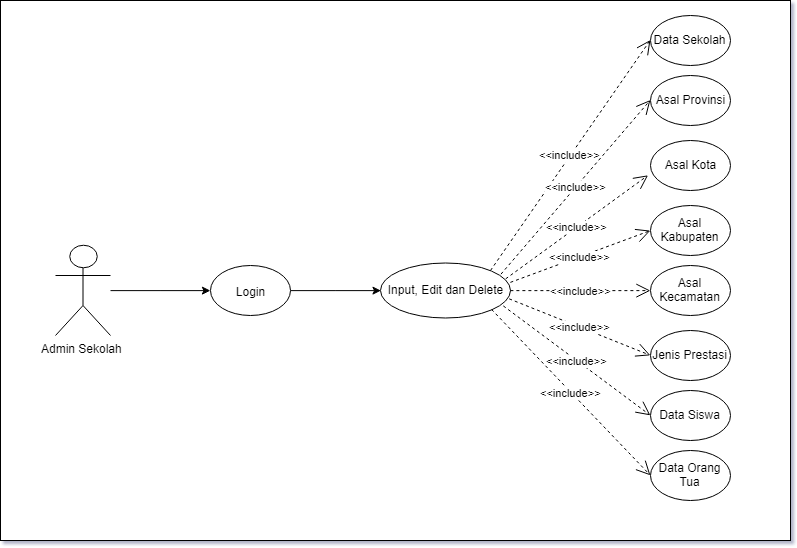
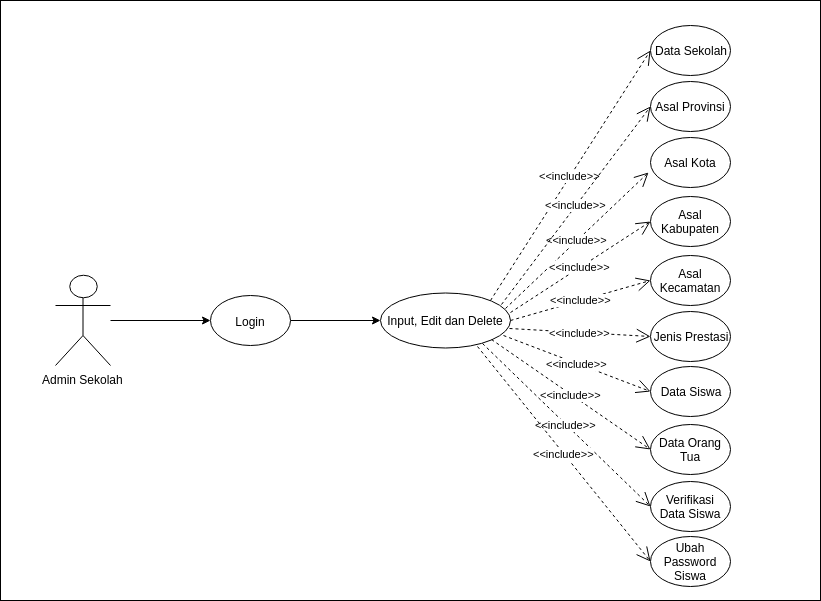
update dokumentasi

diff --git a/document/aplikasi/psb-umum/desain-dan-perancangan.md b/document/aplikasi/psb-umum/desain-dan-perancangan.md
@@ -218,6 +218,14 @@ Permodelan rancangan sistem yang dgunakan adalah UML (Unified Modeling Language)
 
 [![Admin Input Data Orang Tua](/document/aplikasi/psb-umum/images/desain-dan-perancangan/psb-umum_activity-diagram-admin-input-data-orang-tua.png)](/document/aplikasi/psb-umum/images/desain-dan-perancangan/psb-umum_activity-diagram-admin-input-data-orang-tua.png)
 
+###### 3.6.2.2.10 Admin Verifikasi Data Siswa
+
+[![Admin Verifikasi Data Siswa](/document/aplikasi/psb-umum/images/desain-dan-perancangan/psb-umum_activity-diagram-admin-verifikasi-data-siswa.png)](/document/aplikasi/psb-umum/images/desain-dan-perancangan/psb-umum_activity-diagram-admin-verifikasi-data-siswa.png)
+
+###### 3.6.2.2.11 Admin Ubah Password Siswa
+
+[![Admin Ubah Password Siswa](/document/aplikasi/psb-umum/images/desain-dan-perancangan/psb-umum_activity-diagram-admin-ubah-password-siswa.png)](/document/aplikasi/psb-umum/images/desain-dan-perancangan/psb-umum_activity-diagram-admin-ubah-password-siswa.png)
+
 
 ##### 3.6.2.3 Sequence Diagram Admin
 
@@ -261,6 +269,14 @@ Permodelan rancangan sistem yang dgunakan adalah UML (Unified Modeling Language)
 
 [![Admin Input Data Orang Tua](/document/aplikasi/psb-umum/images/desain-dan-perancangan/psb-umum_state-chart-diagram-admin-input-data-orang-tua.png)](/document/aplikasi/psb-umum/images/desain-dan-perancangan/psb-umum_state-chart-diagram-admin-input-data-orang-tua.png)
 
+###### 3.6.2.4.10 Admin Verifikasi Data Siswa
+
+[![Admin Verifikasi Data Siswa](/document/aplikasi/psb-umum/images/desain-dan-perancangan/psb-umum_state-chart-diagram-admin-verifikasi-data-siswa.png)](/document/aplikasi/psb-umum/images/desain-dan-perancangan/psb-umum_state-chart-diagram-admin-verifikasi-data-siswa.png)
+
+###### 3.6.2.4.11 Admin Ubah Password Siswa
+
+[![Admin Ubah Password Siswa](/document/aplikasi/psb-umum/images/desain-dan-perancangan/psb-umum_state-chart-diagram-admin-verifikasi-data-siswa.png)](/document/aplikasi/psb-umum/images/desain-dan-perancangan/psb-umum_state-chart-diagram-admin-verifikasi-data-siswa.png)
+
 #### 3.6.3 Siswa
 
 ##### 3.6.3.1 Use Case Diagram Siswa
@@ -277,16 +293,32 @@ Permodelan rancangan sistem yang dgunakan adalah UML (Unified Modeling Language)
 
 [![Siswa Login](/document/aplikasi/psb-umum/images/desain-dan-perancangan/psb-umum_activity-diagram-siswa-login.png)](/document/aplikasi/psb-umum/images/desain-dan-perancangan/psb-umum_activity-diagram-siswa-login.png)
 
-###### 3.6.3.2.3 Siswa Lihat Data Sekolah
+###### 3.6.3.2.3 Siswa Isi Form Identitas
+
+[![Siswa Siswa Isi Form Identitas](/document/aplikasi/psb-umum/images/desain-dan-perancangan/psb-umum_activity-diagram-siswa-isi-form-dentitas.png)](/document/aplikasi/psb-umum/images/desain-dan-perancangan/psb-umum_activity-diagram-siswa-isi-form-dentitas.png)
+
+###### 3.6.3.2.4 Siswa Lihat Data Sekolah
 
 [![Siswa View Data Sekolah](/document/aplikasi/psb-umum/images/desain-dan-perancangan/psb-umum_activity-diagram-siswa-view-sekolah.png)](/document/aplikasi/psb-umum/images/desain-dan-perancangan/psb-umum_activity-diagram-siswa-view-sekolah.png)
+
+###### 3.6.3.2.5 Siswa Memilih Sekolah Tujuan
+
+[![Siswa Memilih Sekolah Tujuan](/document/aplikasi/psb-umum/images/desain-dan-perancangan/psb-umum_activity-diagram-siswa-memilih-sekolah-tujuan.png)](/document/aplikasi/psb-umum/images/desain-dan-perancangan/psb-umum_activity-diagram-siswa-memilih-sekolah-tujuan.png)
+
+###### 3.6.3.2.6 Siswa Cetak Formulir Pendaftaran
+
+[![Siswa Cetak Formulir Pendaftaran](/document/aplikasi/psb-umum/images/desain-dan-perancangan/psb-umum_activity-diagram-siswa-cetak-formulir-pendaftaran.png)](/document/aplikasi/psb-umum/images/desain-dan-perancangan/psb-umum_activity-diagram-siswa-cetak-formulir-pendaftaran.png)
+
+###### 3.6.3.2.7 Siswa Pindah Sekolah
+
+[![Siswa Pindah Sekolah](/document/aplikasi/psb-umum/images/desain-dan-perancangan/psb-umum_activity-diagram-siswa-pindah-sekolah.png)](/document/aplikasi/psb-umum/images/desain-dan-perancangan/psb-umum_activity-diagram-siswa-pindah-sekolah.png)
 
 
 ##### 3.6.3.3 Sequence Diagram Siswa
 
-###### 3.6.3.3.1 Siswa Lihat Info Sekolah
+###### 3.6.3.3.1 Siswa Lihat Akun Siswa
 
-[![Siswa Lihat Sekolah](/document/aplikasi/psb-umum/images/desain-dan-perancangan/psb-umum_sequence-diagram-siswa-view-info.png)](/document/aplikasi/psb-umum/images/desain-dan-perancangan/psb-umum_sequence-diagram-siswa-view-info.png)
+[![Siswa Lihat Akun Siswa](/document/aplikasi/psb-umum/images/desain-dan-perancangan/psb-umum_sequence-diagram-siswa-view-info.png)](/document/aplikasi/psb-umum/images/desain-dan-perancangan/psb-umum_sequence-diagram-siswa-view-info.png)
 
 
 ##### 3.6.3.4 State Chart Diagram Siswa
@@ -299,24 +331,50 @@ Permodelan rancangan sistem yang dgunakan adalah UML (Unified Modeling Language)
 
 [![Siswa Login](/document/aplikasi/psb-umum/images/desain-dan-perancangan/psb-umum_state-chart-diagram-siswa-login.png)](/document/aplikasi/psb-umum/images/desain-dan-perancangan/psb-umum_state-chart-diagram-siswa-login.png)
 
-###### 3.6.3.4.3 Siswa Lihat Data Sekolah
+###### 3.6.3.4.2 Siswa Login
+
+[![Siswa Login](/document/aplikasi/psb-umum/images/desain-dan-perancangan/psb-umum_state-chart-diagram-siswa-login.png)](/document/aplikasi/psb-umum/images/desain-dan-perancangan/psb-umum_state-chart-diagram-siswa-login.png)
+
+###### 3.6.3.4.3 Siswa Isi Form Identitas
+
+[![Siswa Isi Form Identitas](/document/aplikasi/psb-umum/images/desain-dan-perancangan/psb-umum_state-chart-diagram-siswa-isi-form-identitas.png)](/document/aplikasi/psb-umum/images/desain-dan-perancangan/psb-umum_state-chart-diagram-siswa-isi-form-identitas.png)
+
+###### 3.6.3.4.4 Siswa Lihat Data Sekolah
 
 [![Siswa Lihat Data Sekolah](/document/aplikasi/psb-umum/images/desain-dan-perancangan/psb-umum_state-chart-diagram-siswa-view-sekolah.png)](/document/aplikasi/psb-umum/images/desain-dan-perancangan/psb-umum_state-chart-diagram-siswa-view-sekolah.png)
 
-##### 3.6.3.5 Flowchart Diagram Siswa
+###### 3.6.3.4.5 Siswa Memilih Sekolah Tujuan
+
+[![Siswa Memilih Sekolah Tujuan](/document/aplikasi/psb-umum/images/desain-dan-perancangan/psb-umum_state-chart-diagram-siswa-memilih-sekolah-tujuan.png)](/document/aplikasi/psb-umum/images/desain-dan-perancangan/psb-umum_state-chart-diagram-siswa-memilih-sekolah-tujuan.png)
+
+###### 3.6.3.4.6 Siswa Cetak Formulir Pendaftaran
+
+[![Siswa Cetak Formulir Pendaftaran](/document/aplikasi/psb-umum/images/desain-dan-perancangan/psb-umum_state-chart-diagram-siswa-mencetak-formulir-pendaftaran.png)](/document/aplikasi/psb-umum/images/desain-dan-perancangan/psb-umum_state-chart-diagram-siswa-mencetak-formulir-pendaftaran.png)
+
+###### 3.6.3.4.6 Siswa Pindah Sekolah
+
+[![Siswa Pindah Sekolah](/document/aplikasi/psb-umum/images/desain-dan-perancangan/psb-umum_state-chart-diagram-siswa-pindah-sekolah.png)](/document/aplikasi/psb-umum/images/desain-dan-perancangan/psb-umum_state-chart-diagram-siswa-pindah-sekolah.png)
+
+##### 3.6.3.5 Sequence Diagram User
+
+###### 3.6.3.5.1 User Melihat Passing Grade
+
+[![User Melihat Passing Grade](/document/aplikasi/psb-umum/images/desain-dan-perancangan/psb-umum_sequence-diagram-user-view-passing-grade.png)](/document/aplikasi/psb-umum/images/desain-dan-perancangan/psb-umum_sequence-diagram-user-view-passing-grade.png)
+
+##### 3.6.3.6 Flowchart Diagram Siswa
 
 [![Flowchart Diagram Siswa](/document/aplikasi/psb-umum/images/desain-dan-perancangan/psb-umum_flowchart-diagram-siswa.png)](/document/aplikasi/psb-umum/images/desain-dan-perancangan/psb-umum_flowchart-diagram-siswa.png)
 
 
-#### 3.6.6 Class Diagram
+#### 3.6.4 Class Diagram
 
 [![Class Diagram](/document/aplikasi/psb-umum/images/desain-dan-perancangan/psb-umum_class-diagram.png)](/document/aplikasi/psb-umum/images/desain-dan-perancangan/psb-umum_class-diagram.png)
 
-#### 3.6.7 Technology Stack Diagram
+#### 3.6.5 Technology Stack Diagram
 
 [![Technology Stack Diagram](/document/aplikasi/psb-umum/images/desain-dan-perancangan/psb-umum_technology-stack-diagram.png)](/document/aplikasi/psb-umum/images/desain-dan-perancangan/psb-umum_technology-stack-diagram.png)
 
-#### 3.6.8 Deployment Diagram
+#### 3.6.6 Deployment Diagram
 
 [![Deployment Diagram](/document/aplikasi/psb-umum/images/desain-dan-perancangan/psb-umum_deployment-diagram.png)](/document/aplikasi/psb-umum/images/desain-dan-perancangan/psb-umum_deployment-diagram.png)
 
@@ -331,7 +389,7 @@ Langkah atau tahapan yang dilakukan dalam mengembangkan aplikasi Sistem Penerima
 5. Testing Sistem
   Sistem yang telah selesai dibuat akan diuji coba menggunakan data test sebelum sistem dijalankan. Dalam uji coba sistem ini akan diterapkan metode *prototyping* yaitu jika terjadi kesalahan/kekurangan baik proses ataupun output sistem, maka kesalahan tersebut akan diperbaiki/ditambahkan.
 6. Pelatihan *(training)*
-  Pelatihan ini diberikan kepada operator pada satuan kerja dan operator serta administrator pada bagian kelengkapan/badan pengelola keuangan daerah. Pelatihan yang diberikan kepada operator meliputi penggunaan aplikasi dan *trobleshooting* secara umum, sedangkan pelatihan yang diberikan administrator meliputi penggunaan program secara keseluruhan, struktur database,sinkronisasi data dan *trobleshooting* secara mendetail.
+  Pelatihan ini diberikan kepada operator pada satuan kerja dan operator serta administrator pada setiap admin sekolah. Pelatihan yang diberikan kepada operator meliputi penggunaan aplikasi dan *trobleshooting* secara umum, sedangkan pelatihan yang diberikan administrator meliputi penggunaan program secara keseluruhan, struktur database,sinkronisasi data dan *trobleshooting* secara mendetail.
 7. Implementasi Sistem
   Sistem akan dijalankan *(running)* jika sudah tidak ada permasalahan yang akan ditemukan dalam testing sistem. Akan tetapi tidak menutup kemungkinan jika masih terdapat kekurangan karena terjadinya perubahan peraturan maupun kebijakan yang mengharuskan perancangan ulang.
 
@@ -411,9 +469,19 @@ Berikut ini adalah rancangan eksekusi sistem informasi manajemen penerimaan sisw
 
 [![Tampilan Siwa Lihat Sekolah](/document/aplikasi/psb-umum/images/desain-dan-perancangan/psb-umum_rancangan-halaman-sekolah-siswa.png)](/document/aplikasi/psb-umum/images/desain-dan-perancangan/psb-umum_rancangan-halaman-sekolah-siswa.png)
 
-##### 3.8.3.6 Tampilan Siswa Lihat Detail Sekolah
+##### 3.8.3.6 Tampilan Siswa Isi Form Pendaftaran
 
-[![Tampilan Siswa Lihat Detail Sekolah](/document/aplikasi/psb-umum/images/desain-dan-perancangan/psb-umum_rancangan-halaman-profile-sekolah-siswa.png)](/document/aplikasi/psb-umum/images/desain-dan-perancangan/psb-umum_rancangan-halaman-profile-sekolah-siswa.png)
+[![Tampilan Siswa Isi Form Pendaftaran](/document/aplikasi/psb-umum/images/desain-dan-perancangan/psb-umum_rancangan-halaman-siswa-isi-form-pendaftaran.png)](/document/aplikasi/psb-umum/images/desain-dan-perancangan/psb-umum_rancangan-halaman-siswa-isi-form-pendaftaran.png)
+
+##### 3.8.3.7 Tampilan Siswa Pindah Sekolah Sekolah
+
+[![Tampilan Siswa Pindah Sekolah](/document/aplikasi/psb-umum/images/desain-dan-perancangan/psb-umum_rancangan-halaman-siswa-pindah-sekolah.png)](/document/aplikasi/psb-umum/images/desain-dan-perancangan/psb-umum_rancangan-halaman-siswa-pindah-sekolah.png)
+
+### 3.9 Passing Grade
+
+
+
+
 
 ## 4. PENUTUP
 Dengan adanya pengembangan dari sistem informasi manajemen pendaftaran siswa baru ini untuk meningkatkan kinerja sistem yang telah ada dan berjalan sebelumnya menjadi lebih rapih dan tertata sehingga dapat mempermudah dalam pengumpulan informasi dan pengaturan manejemen sekolah serta mempermudah masyarakat dalam mencari informasi. Aplikasi ini mempunyai kelebihan untuk memperoleh data yang cepat, tepat dan akurat mengenai info sekolah yang terdapat di Pemprov Banten. Sistem ini memberikan kemudahan dalam beberapa hal seperti : pencatatan data sekolah, pencatatan data siswa dan kemudahan dalam mencari informasi tentang pelayanan pendaftaran siswa baru.
